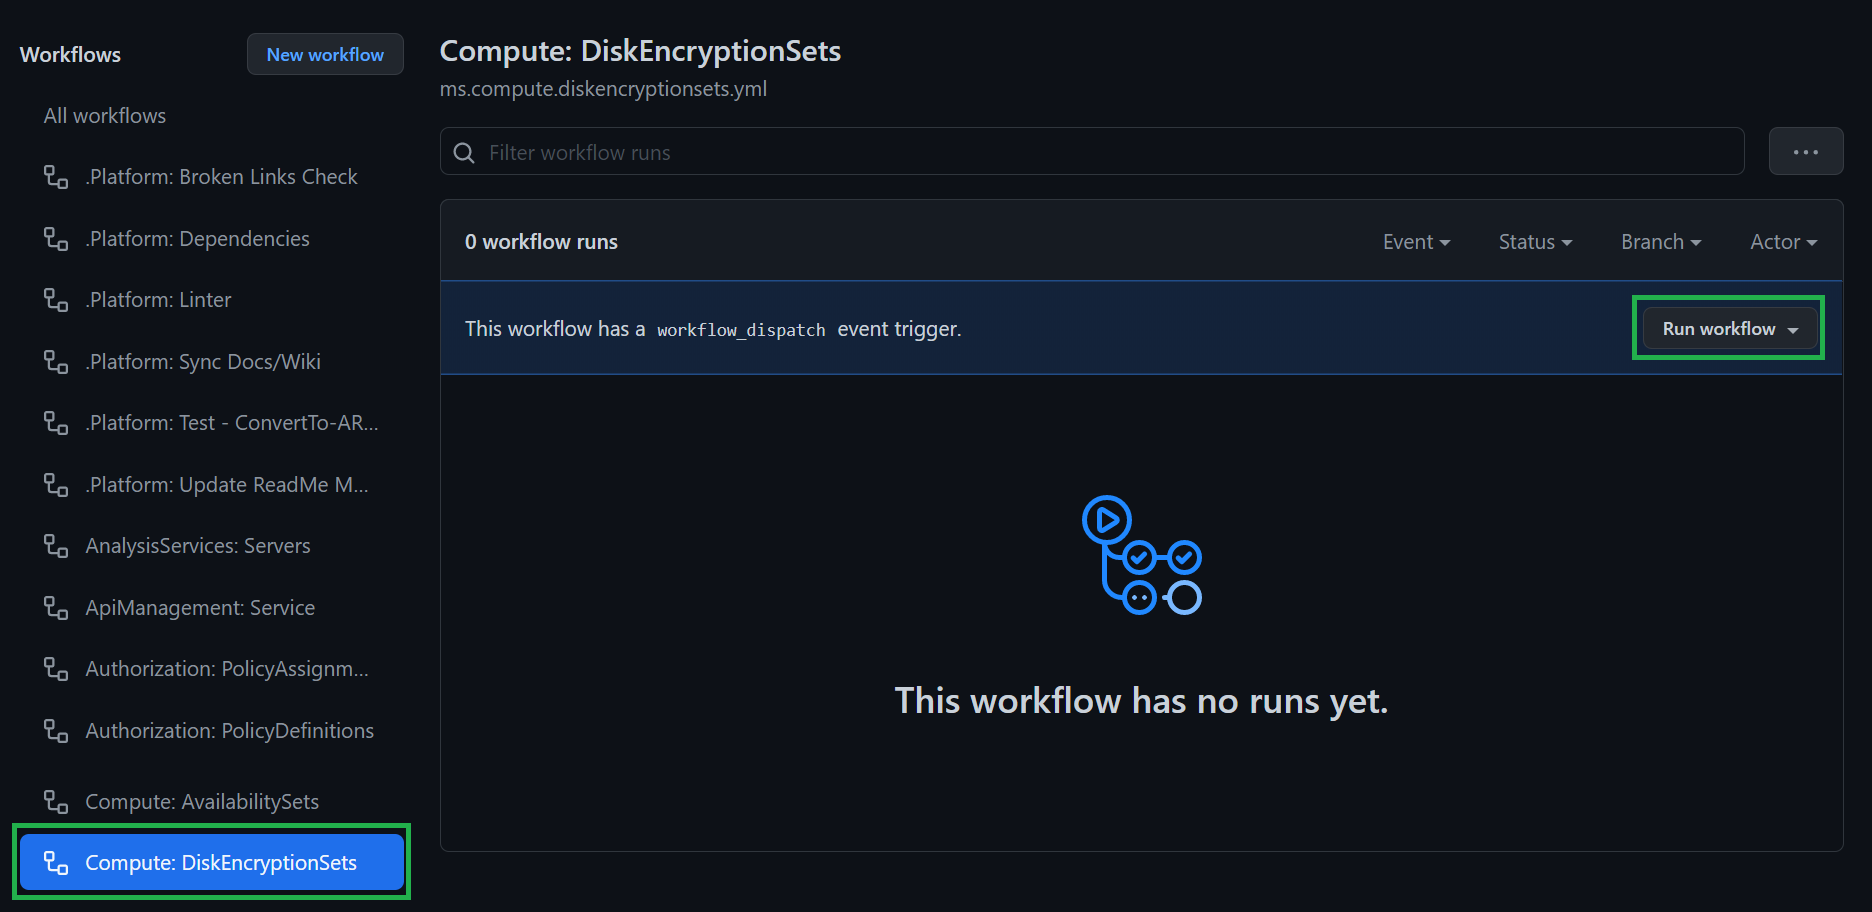
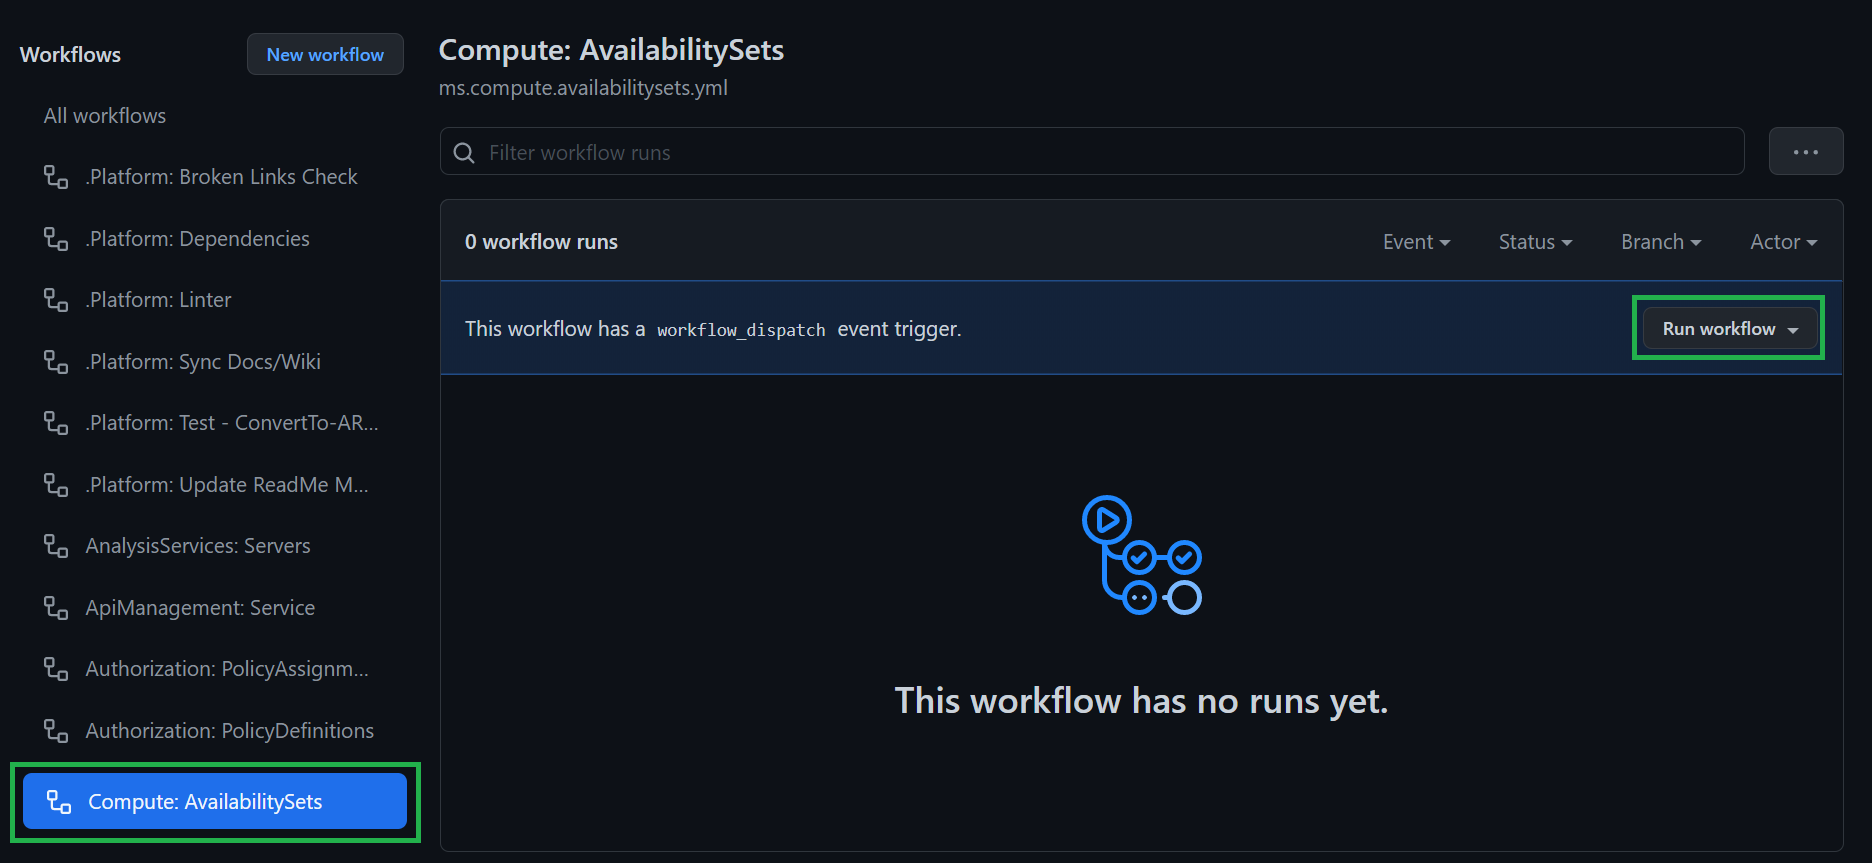
Update to latest

diff --git a/docs/wiki/Lab 9 - Contribution.md b/docs/wiki/Lab 9 - Contribution.md
@@ -122,7 +122,7 @@ Now that the contribution is implemented and the tests are green, you can contin
 
     <img src="./media/Lab9/openActions.png" alt="Open actions" height="100">
 
-1. From the list of actions to the left, select `Compute: DiskEncryptionSets` followed by the `Run workflow` dropdown to the right
+1. From the list of actions to the left, select `Compute: AvailabilitySets` followed by the `Run workflow` dropdown to the right
 
     <img src="./media/Lab9/actionSelect.png" alt="Select actions" height="350">
 
@@ -140,7 +140,9 @@ Now that the contribution is implemented and the tests are green, you can contin
 
     <img src="./media/Lab9/badgeDropdown.png" alt="Badge dropdown" height="200">
 
+1. In the opening pop up, you first need to select your branch and then click on the `Copy status badge Markdown`
 
+    <img src="./media/Lab9/carmlStatusBadge.png" alt="Status badge" height="400">
 
 <!--
 1. In your fork, navigate to the list of pipelines in the lower end of the repository overview and select the name of the `Key Vault` module in the left column
